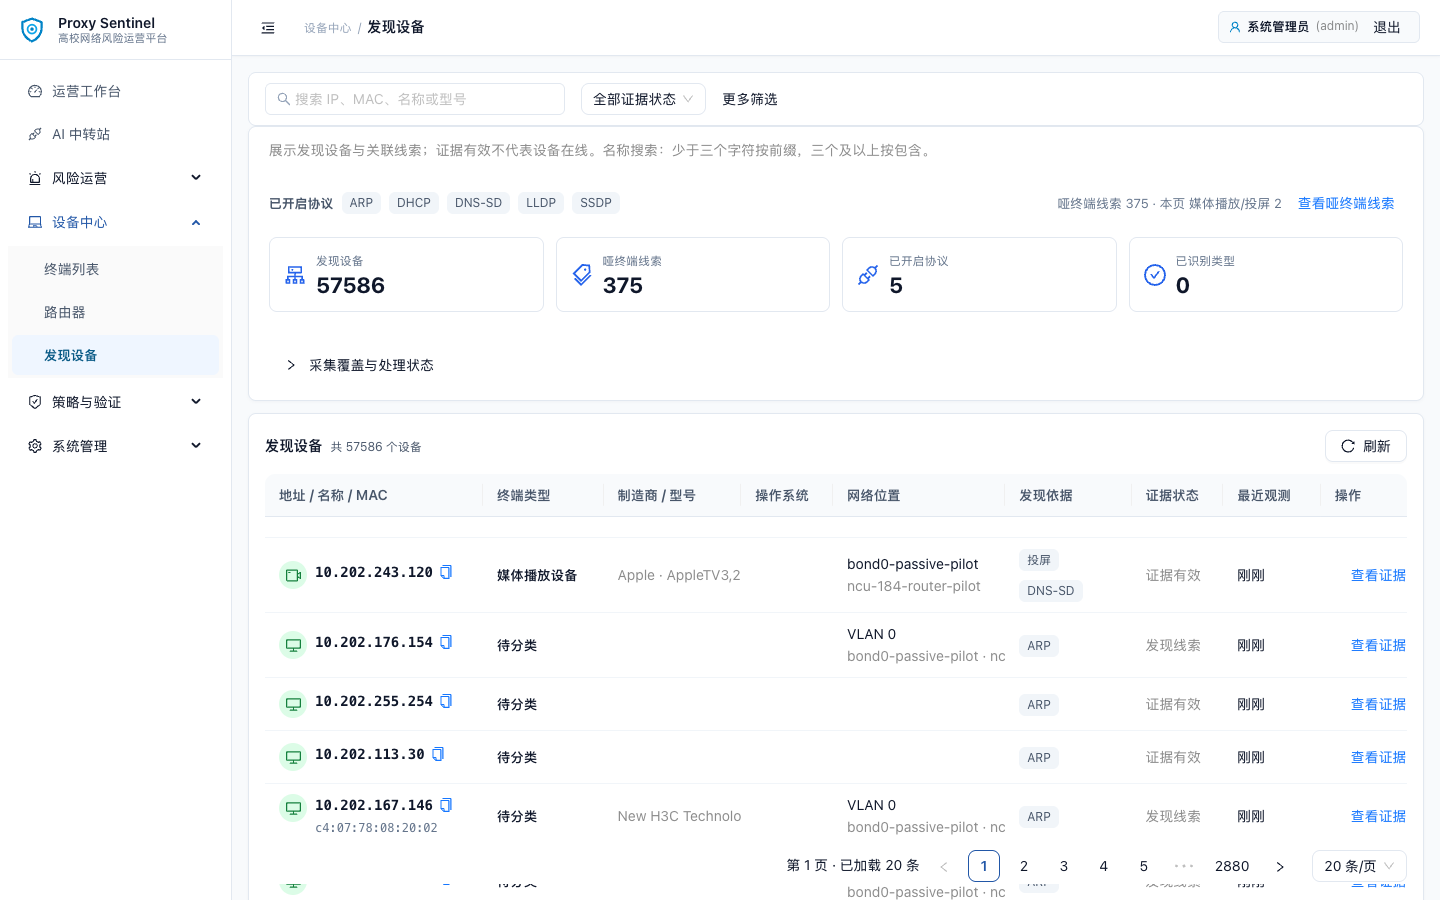
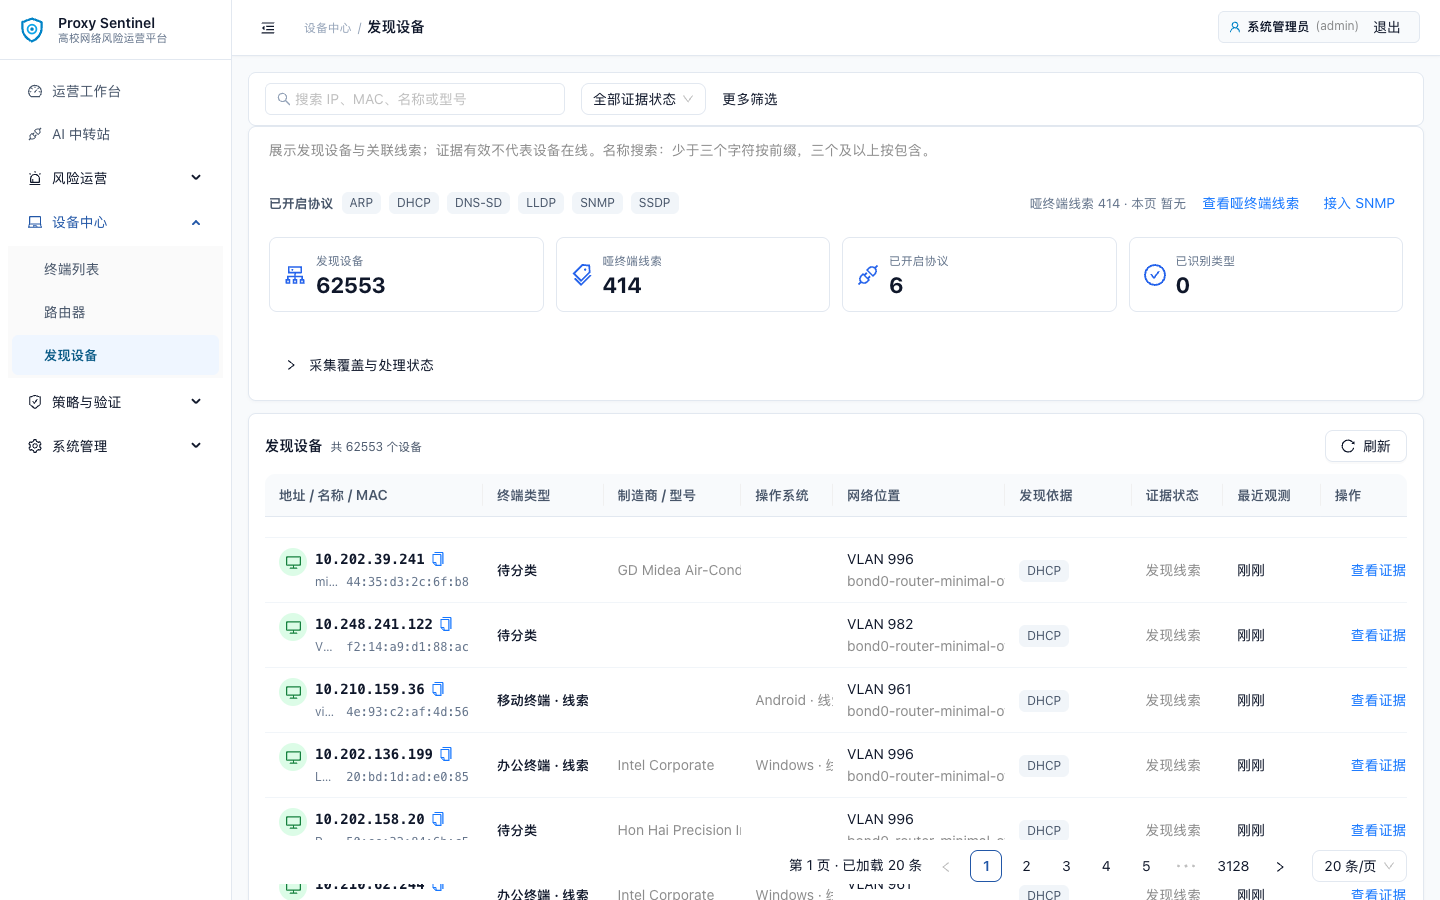
增加镜像流量被动服务线索

diff --git a/frontend/src/pages/PassiveDiscoveryPanel.tsx b/frontend/src/pages/PassiveDiscoveryPanel.tsx
@@ -29,6 +29,7 @@ type Coverage = components['schemas']['DiscoveryCoverage']
 type Statistics = components['schemas']['DiscoveryStatistics']
 type Catalogue = components['schemas']['DiscoveryTypeCatalogue']
 type History = components['schemas']['DiscoveryHistoryPage']
+type ServiceClue = {mac:string;service_type:string;service_name?:string;service_target?:string;port:number;observations:number;last_seen:string}
 const protocols: Record<string,string> = { dhcp:'DHCP', dhcpv6:'DHCPv6', dns_sd:'DNS-SD', ssdp:'SSDP', ws_discovery:'WS-Discovery', arp:'ARP', ndp:'NDP', ieee1905_client:'IEEE 1905', ieee1905_client_association:'IEEE 1905', lldp:'LLDP', cdp:'CDP', snmp:'SNMP', ipp:'IPP', onvif:'ONVIF', nbns:'NBNS', llmnr:'LLMNR', bacnet:'BACnet/IP', coap:'CoAP', mqtt:'MQTT', http:'HTTP', tls:'TLS', rtsp:'RTSP', fdb:'交换机 MAC 表', neighbor:'邻居表', active:'探测响应' }
 const capabilities: Record<string,string> = { printing:'打印', scanning:'扫描', casting:'投屏', network_video:'网络视频', media_rendering:'媒体播放' }
 const states: Record<string,string> = { identified:'证据有效', expired:'证据已过期', conflict:'类型证据冲突', candidate:'发现线索' }
@@ -95,6 +96,8 @@ export function PassiveDiscoveryPanel({view}:{view:'iot'|'records'}) {
   const history=useQuery({queryKey:['discovery-history',selected?.id,historyCursor],queryFn:({signal})=>request<History>(`/discovery/history?device_id=${encodeURIComponent(selected!.id)}&cursor=${historyCursor}&limit=20`,{signal}),enabled:!!selected&&coverage.data?.enabled===true})
   const types=Object.fromEntries((catalogue.data?.items??[]).map(t=>[t.id,t.label]))
   const items=devices.data?.items??[]
+  const serviceKey=items.map(item=>item.mac?.toLowerCase()).filter(Boolean).sort().join(',')
+  const serviceClues=useQuery({queryKey:['discovery-service-clues',serviceKey],queryFn:({signal})=>request<{items:Record<string,ServiceClue[]>}>(`/discovery/service-clues?macs=${encodeURIComponent(serviceKey)}`,{signal}),enabled:serviceKey!==''&&coverage.data?.enabled===true,staleTime:60_000})
   const fresh=devices.data?.freshness
   const dumbFilter=params.get('discovery_capability')==='dumb'
   const enabledProtocolCount=(coverage.data?.items??[]).filter(p=>p.enabled).length
@@ -103,7 +106,8 @@ export function PassiveDiscoveryPanel({view}:{view:'iot'|'records'}) {
   const kind=(item:Device)=><Typography.Text strong={item.classification_status!=='expired'}>{types[item.device_type||item.last_device_type||'']??(dumbTerminal(item)?`哑终端线索 · ${dumbTerminal(item)}`:(terminalTypeClue(item)?`${terminalTypeClue(item)} · 线索`:'待分类'))}</Typography.Text>
   const vendor=(item:Device)=><Typography.Text type="secondary">{[item.manufacturer,item.model_name].filter(Boolean).join(' · ')}</Typography.Text>
   const location=(item:Device)=><Space orientation="vertical" size={0}><Typography.Text>{item.vlan?`VLAN ${item.vlan}`:item.domain}</Typography.Text><Typography.Text type="secondary">{item.vlan?[item.domain,item.sensor_id].filter(Boolean).join(' · '):item.sensor_id}</Typography.Text></Space>
-  const clues=(item:Device)=><Space wrap>{(item.capabilities??[]).filter(c=>capabilities[c]).map(c=><Tag key={c}>{capabilities[c]}</Tag>)}{(item.protocols??[]).map(p=><Tag key={p}>{protocols[p]??p}</Tag>)}</Space>
+  const serviceTags=(item:Device)=>{const list=serviceClues.data?.items?.[(item.mac||'').toLowerCase()]??[];const seen=new Set<string>();const unique=list.filter(clue=>{const key=`${clue.service_type}:${clue.port}`;if(seen.has(key))return false;seen.add(key);return true});return unique.slice(0,4).map(clue=><Tag key={`${clue.service_type}:${clue.port}`}>{[clue.service_type,clue.port].filter(Boolean).join(' · ')}</Tag>)}
+  const clues=(item:Device)=><Space wrap>{(item.capabilities??[]).filter(c=>capabilities[c]).map(c=><Tag key={c}>{capabilities[c]}</Tag>)}{(item.protocols??[]).map(p=><Tag key={p}>{protocols[p]??p}</Tag>)}{serviceTags(item)}</Space>
   const state=(item:Device)=><Typography.Text type={item.classification_status==='conflict'?'warning':'secondary'}>{states[item.classification_status??'']??(item.current?'证据有效':'证据已过期')}</Typography.Text>
   const show=(item:Device)=>{setHistoryCursor('');setSelected(item)}
   const columns=[
@@ -156,7 +160,7 @@ export function PassiveDiscoveryPanel({view}:{view:'iot'|'records'}) {
         if(nextPage===current+1&&devices.data?.next_cursor)setPaging({key:filterKey,cursors:[...cursors.slice(0,page+1),devices.data.next_cursor],page:page+1})
       }} totalText={`第 ${page+1} 页 · 已加载 ${page*pageSize+items.length} 条`} />
     </section>}
-    <Modal className="discovery-evidence-modal" title="设备证据与变化历史" open={!!selected} footer={null} onCancel={()=>setSelected(undefined)}>{selected&&<><div className="discovery-detail-identity">{identity(selected)}{kind(selected)}</div><dl className="discovery-detail-facts">{[[`设备类型`,types[selected.device_type||selected.last_device_type||'']??(dumbTerminal(selected)?`哑终端线索 · ${dumbTerminal(selected)}`:(terminalTypeClue(selected)?`${terminalTypeClue(selected)} · 线索`:'待分类'))],[`操作系统线索`,osClue(selected)],[`制造商`,selected.manufacturer],[`型号`,selected.model_name],[`MAC`,selected.mac],[`当前地址`,(selected.current_addresses??[]).join('、')||selected.primary_ip||selected.last_observed_ip],[`网络域`,selected.domain],[`VLAN`,selected.vlan],[`采集传感器`,selected.sensor_id],[`首次观测`,selected.first_seen?observedTimeTitle(selected.first_seen):''],[`最近观测`,observedTimeTitle(selected.last_seen)],[`证据数`,selected.evidence_count?String(selected.evidence_count):'']].filter(([,value])=>value).map(([label,value])=><div key={label}><dt>{label}</dt><dd>{value}</dd></div>)}</dl><Typography.Paragraph>{selected.classification?.reason}</Typography.Paragraph><Typography.Paragraph type="secondary">最近证据摘要</Typography.Paragraph>{(selected.observations??[]).map(o=><article key={o.id} className="discovery-card"><strong>{protocols[o.origin]??o.origin}</strong><span className="discovery-identifier">{[o.ip,o.mac,o.name].filter(Boolean).join(' · ')}</span><span>{o.explanation}</span><Typography.Text type="secondary">{observedTimeTitle(o.observed_at)}</Typography.Text>{o.withdrawn&&<Tag color="warning">已撤销</Tag>}</article>)}
+    <Modal className="discovery-evidence-modal" title="设备证据与变化历史" open={!!selected} footer={null} onCancel={()=>setSelected(undefined)}>{selected&&<><div className="discovery-detail-identity">{identity(selected)}{kind(selected)}</div><dl className="discovery-detail-facts">{[[`设备类型`,types[selected.device_type||selected.last_device_type||'']??(dumbTerminal(selected)?`哑终端线索 · ${dumbTerminal(selected)}`:(terminalTypeClue(selected)?`${terminalTypeClue(selected)} · 线索`:'待分类'))],[`操作系统线索`,osClue(selected)],[`制造商`,selected.manufacturer],[`型号`,selected.model_name],[`MAC`,selected.mac],[`当前地址`,(selected.current_addresses??[]).join('、')||selected.primary_ip||selected.last_observed_ip],[`网络域`,selected.domain],[`VLAN`,selected.vlan],[`采集传感器`,selected.sensor_id],[`首次观测`,selected.first_seen?observedTimeTitle(selected.first_seen):''],[`最近观测`,observedTimeTitle(selected.last_seen)],[`证据数`,selected.evidence_count?String(selected.evidence_count):'']].filter(([,value])=>value).map(([label,value])=><div key={label}><dt>{label}</dt><dd>{value}</dd></div>)}</dl><Typography.Paragraph>{selected.classification?.reason}</Typography.Paragraph><Typography.Paragraph type="secondary">最近证据摘要</Typography.Paragraph>{(serviceClues.data?.items?.[(selected.mac||'').toLowerCase()]??[]).length>0&&<div className="discovery-service-clues"><Typography.Text type="secondary">被动服务线索</Typography.Text><Space wrap>{(serviceClues.data?.items[(selected.mac||'').toLowerCase()]??[]).map(clue=><Tag key={`${clue.service_type}:${clue.port}`}>{[clue.service_type,clue.port,clue.service_name].filter(Boolean).join(' · ')}</Tag>)}</Space></div>}{(selected.observations??[]).map(o=><article key={o.id} className="discovery-card"><strong>{protocols[o.origin]??o.origin}</strong><span className="discovery-identifier">{[o.ip,o.mac,o.name].filter(Boolean).join(' · ')}</span><span>{o.explanation}</span><Typography.Text type="secondary">{observedTimeTitle(o.observed_at)}</Typography.Text>{o.withdrawn&&<Tag color="warning">已撤销</Tag>}</article>)}
       {history.isError&&<AppErrorAlert title="读取设备历史失败" />}
       {history.data&&<><Typography.Title level={5}>变化历史</Typography.Title>{history.data.items.map(row=><article className="discovery-card" key={row.id}><strong>{protocols[row.evidence?.origin]??row.evidence?.origin}</strong><span>{row.evidence?.explanation}</span><Typography.Text type="secondary">观测于 {observedTimeTitle(row.observed_at)}</Typography.Text></article>)}<Space wrap><Button disabled={historyCursor===''||history.isFetching} onClick={()=>setHistoryCursor('')}>最新记录</Button><Button disabled={!history.data.has_more||history.isFetching} onClick={()=>setHistoryCursor(history.data!.next_cursor)}>更早记录</Button></Space></>}
     </>}</Modal>

diff --git a/internal/store/discovery_services.go b/internal/store/discovery_services.go
@@ -1,0 +1,76 @@
+package store
+
+import (
+	"context"
+	"encoding/json"
+	"errors"
+	"fmt"
+	"io"
+	"strings"
+	"time"
+)
+
+// DiscoveryServiceClues returns DNS-SD/SSDP service announcements observed for
+// the given MAC addresses. The evidence already exists in normalized_events;
+// this read is intentionally MAC-scoped and time-bounded so a device list does
+// not scan the whole event table.
+func (s *ClickHouseStore) DiscoveryServiceClues(ctx context.Context, macs []string, since time.Time) (map[string][]DiscoveryServiceClue, error) {
+	normalized := make([]string, 0, len(macs))
+	seen := map[string]bool{}
+	for _, mac := range macs {
+		mac = strings.ToLower(strings.TrimSpace(mac))
+		if mac == "" || seen[mac] {
+			continue
+		}
+		if len(mac) > 64 || strings.ContainsAny(mac, "'\\") {
+			continue
+		}
+		seen[mac] = true
+		normalized = append(normalized, mac)
+	}
+	if len(normalized) == 0 {
+		return map[string][]DiscoveryServiceClue{}, nil
+	}
+	if since.IsZero() {
+		since = time.Now().UTC().Add(-24 * time.Hour)
+	}
+	quoted := make([]string, 0, len(normalized))
+	for _, mac := range normalized {
+		quoted = append(quoted, "'"+mac+"'")
+	}
+	sql := fmt.Sprintf(`SELECT
+ JSONExtractString(payload_json,'ethernet_source_mac') AS mac,
+ JSONExtractString(payload_json,'service_type') AS service_type,
+ JSONExtractString(payload_json,'service_instance') AS service_name,
+ JSONExtractString(payload_json,'service_target') AS service_target,
+ JSONExtractInt(payload_json,'service_port') AS port,
+ count() AS observations,
+ max(timestamp) AS last_seen
+FROM proxy_sentinel.normalized_events
+WHERE timestamp >= toDateTime64('%s',6,'UTC')
+ AND lower(JSONExtractString(payload_json,'ethernet_source_mac')) IN (%s)
+ AND JSONHas(payload_json,'service_port')
+GROUP BY mac,service_type,service_name,service_target,port
+ORDER BY observations DESC LIMIT 1000 FORMAT JSONEachRow`, since.UTC().Format("2006-01-02 15:04:05"), strings.Join(quoted, ","))
+	data, err := s.query(ctx, sql)
+	if err != nil {
+		return nil, err
+	}
+	out := map[string][]DiscoveryServiceClue{}
+	decoder := json.NewDecoder(strings.NewReader(string(data)))
+	for {
+		var row DiscoveryServiceClue
+		if err := decoder.Decode(&row); err != nil {
+			if errors.Is(err, io.EOF) {
+				break
+			}
+			return nil, fmt.Errorf("decode service clue: %w", err)
+		}
+		row.MAC = strings.ToLower(strings.TrimSpace(row.MAC))
+		if row.MAC == "" || row.Port <= 0 {
+			continue
+		}
+		out[row.MAC] = append(out[row.MAC], row)
+	}
+	return out, nil
+}

diff --git a/internal/controlplane/discovery.go b/internal/controlplane/discovery.go
@@ -8,6 +8,7 @@ import (
 	"os"
 	"proxy-sentinel/internal/discovery"
 	"proxy-sentinel/internal/fingerprint"
+	"proxy-sentinel/internal/store"
 	"sort"
 	"strconv"
 	"strings"
@@ -153,6 +154,28 @@ func (s *Server) handleDiscovery(w http.ResponseWriter, r *http.Request, path st
 			return
 		}
 		writeJSON(w, 200, page)
+	case path == "/discovery/service-clues" && r.Method == "GET":
+		reader, ok := s.reader.(store.DiscoveryServiceClueReader)
+		if !ok {
+			writeJSON(w, 200, map[string]any{"items": map[string]any{}})
+			return
+		}
+		raw := strings.Split(r.URL.Query().Get("macs"), ",")
+		macs := make([]string, 0, len(raw))
+		for _, mac := range raw {
+			if mac = strings.TrimSpace(mac); mac != "" {
+				macs = append(macs, mac)
+			}
+			if len(macs) >= 50 {
+				break
+			}
+		}
+		items, err := reader.DiscoveryServiceClues(ctx, macs, time.Now().UTC().Add(-2*time.Hour))
+		if err != nil {
+			writeError(w, 500, "discovery_read", "读取被动服务线索失败")
+			return
+		}
+		writeJSON(w, 200, map[string]any{"items": items})
 	case path == "/discovery/snmp-candidates" && r.Method == "GET":
 		rows, err := repo.DB.QueryContext(ctx, `WITH frequent AS (
  SELECT document->>'mac' AS mac

diff --git a/internal/store/store.go b/internal/store/store.go
@@ -297,6 +297,20 @@ type EndpointRegistrationUpdate struct {
 	RegistrationUpdatedAt string `json:"registration_updated_at"`
 }
 
+type DiscoveryServiceClue struct {
+	MAC           string `json:"mac"`
+	ServiceType   string `json:"service_type"`
+	ServiceName   string `json:"service_name,omitempty"`
+	ServiceTarget string `json:"service_target,omitempty"`
+	Port          int    `json:"port"`
+	Observations  int    `json:"observations"`
+	LastSeen      string `json:"last_seen"`
+}
+
+type DiscoveryServiceClueReader interface {
+	DiscoveryServiceClues(context.Context, []string, time.Time) (map[string][]DiscoveryServiceClue, error)
+}
+
 type ActivityProfile struct {
 	IP                 string           `json:"ip"`
 	Window             string           `json:"window"`

diff --git a/internal/store/dbstore.go b/internal/store/dbstore.go
@@ -111,6 +111,10 @@ func (s *DBStore) GetIPActivity(ctx context.Context, ip string, limit int) (Acti
 	return s.ch.GetIPActivity(ctx, ip, limit)
 }
 
+func (s *DBStore) DiscoveryServiceClues(ctx context.Context, macs []string, since time.Time) (map[string][]DiscoveryServiceClue, error) {
+	return s.ch.DiscoveryServiceClues(ctx, macs, since)
+}
+
 func (s *DBStore) GetAccountIdentity(ctx context.Context, accountID string, query Query) (AccountIdentityProfile, bool, error) {
 	return s.pg.GetAccountIdentity(ctx, accountID, query)
 }

diff --git a/docs/discovery-data-reset-20261031.md b/docs/discovery-data-reset-20261031.md
@@ -125,3 +125,14 @@ ClickHouse `normalized_events.timestamp` 是 Asia/Shanghai 时区，第一次按
 - 发现页“已开启协议”会显示 SNMP；
 - 但当前没有 SNMP stream facts/current 设备记录，说明只看到 SNMP 帧，尚未形成可投影终端；
 - OS/端口仍需 SNMP 主动轮询或 MIB 数据，不能仅凭当前被动帧补全。
+
+## 纯被动服务线索
+
+新增 `/discovery/service-clues` 和 ClickHouse 聚合：
+
+- 从 normalized_events 的 DNS-SD/SSDP payload 提取 `service_type`、`service_port`、`service_instance`；
+- 页面按 MAC 合并到“发现依据”和详情；
+- 现场 AirPlay 示例：`_airplay._tcp · 7386`、`_maxhubmobile._tcp · 7382`；
+- 查询限制 2 小时、最多 50 个 MAC、结果缓存 60 秒。
+
+这些是镜像流量里实际出现的服务公告，不是主动端口扫描。
